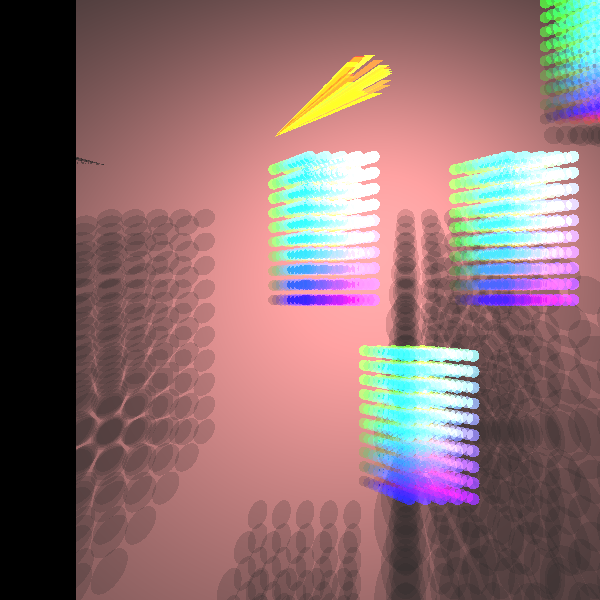
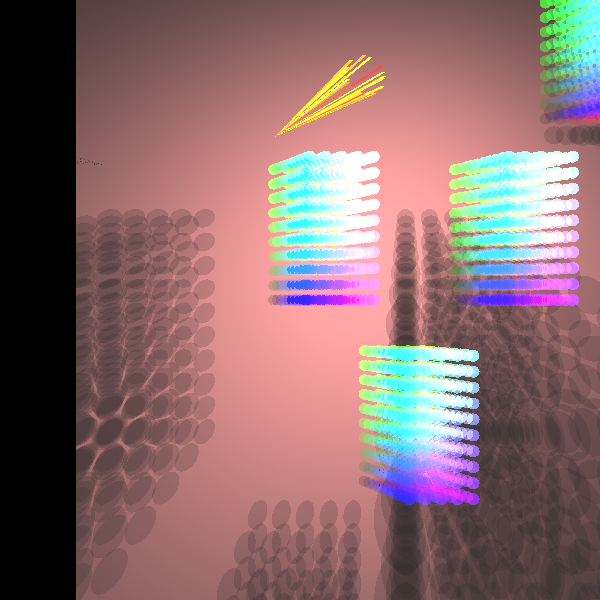
finished! adding tag
db

Changed region(s): [[0.48, 0.09, 0.66, 0.21], [0.45, 0.21, 0.48, 0.24], [0.12, 0.24, 0.15, 0.27]]

diff --git a/unittests/special/efficiencyBoxTest.java b/unittests/special/efficiencyBoxTest.java
@@ -126,7 +126,7 @@ public class efficiencyBoxTest {
             Plane plane = new Plane(baseRay.getP0().add(baseRay.getDirVector().scale(100)), baseRay.getDirVector());
 
             Point startPoint = baseRay.getP0();
-            double thickness = 5;
+            double thickness = 2;
             Point startPoint2;// = startPoint.add(new Vector(thickness, 0, 1));
             List<Ray> rayList = baseRay.getRandomRays(.1);
             for (int i = 0; i < rayList.size(); i++) {
